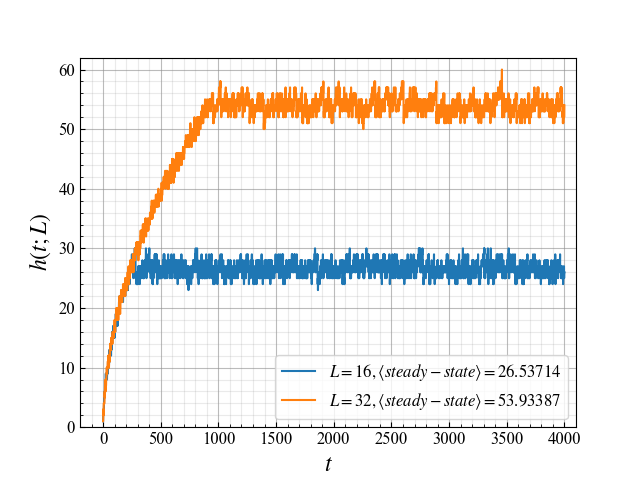
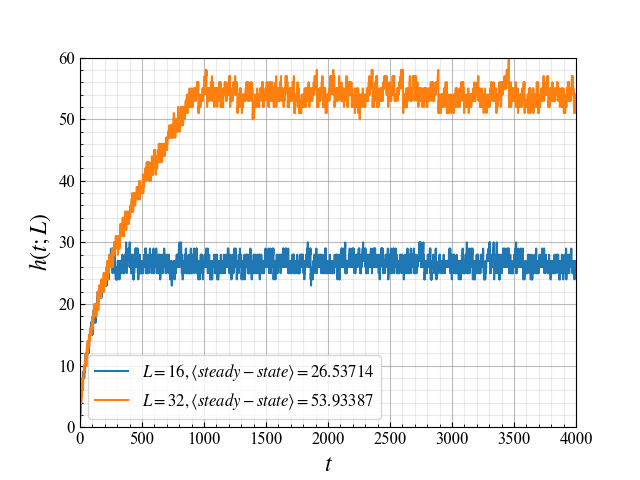
Completed most of Task3

diff --git a/main.py b/main.py
@@ -157,8 +157,8 @@ def task_1(compute=True, plot=False):
         plt.grid(b=True, which='minor', color='#999999', linestyle='-', alpha=0.2)
         plt.xticks(fontsize=12, fontname='Times New Roman')
         plt.yticks(fontsize=12, fontname='Times New Roman')
-        plt.ylim(0, 34)
-        plt.xlim(-200, 4100)
+        plt.ylim(0, 35)
+        plt.xlim(0, 4000)
         plt.savefig('Plots/Task1/chaning_probability.png')
         plt.show()
 
@@ -178,8 +178,8 @@ def task_1(compute=True, plot=False):
         plt.plot(sites, thresholds, 'x', label=r'$Threshold\: Slopes$')
         plt.xlabel('$\it{i}$', fontname='Times New Roman', fontsize=17)
         plt.ylabel('$\it{z_i}$', fontname='Times New Roman', fontsize=20)
-        plt.xlim([0, 33])
-        plt.ylim([0, 2.2])
+        plt.xlim([0, 35])
+        plt.ylim([0, 2.25])
         plt.legend()
         plt.minorticks_on()
         ax.tick_params(direction='in')
@@ -214,8 +214,8 @@ def task_1(compute=True, plot=False):
         plt.grid(b=True, which='minor', color='#999999', linestyle='-', alpha=0.2)
         plt.xticks(fontsize=12, fontname='Times New Roman')
         plt.yticks(fontsize=12, fontname='Times New Roman')
-        plt.ylim(0, 62)
-        plt.xlim(-200, 4100)
+        plt.ylim(0, 60)
+        plt.xlim(0, 4000)
         plt.savefig('Plots/Task1/heights_at_site_1.png')
         plt.show()
 
@@ -317,7 +317,7 @@ def task_2_a(compute=True, plot=False):
         plt.xticks(fontsize=12, fontname='Times New Roman')
         plt.yticks(fontsize=12, fontname='Times New Roman')
         plt.xlim(-2000, 64000)
-        plt.ylim(0, 460)
+        plt.ylim(0, 500)
         plt.savefig('Plots/Task2/task2a.png')
         plt.show()
 
@@ -397,7 +397,7 @@ def task_2_b(compute=True, plot=False):
         plt.grid(b=True, which='minor', color='#999999', linestyle='-', alpha=0.2)
         plt.xticks(fontsize=12, fontname='Times New Roman')
         plt.yticks(fontsize=12, fontname='Times New Roman')
-        plt.ylim(-2000, 58000)
+        plt.ylim(-2000, 60000)
         plt.xlim(0, 260)
         plt.savefig('Plots/Task2/task2b.png')
         plt.show()
@@ -545,7 +545,7 @@ def task_2_d(compute=True, plot=False):
         plt.grid(b=True, which='minor', color='#999999', linestyle='-', alpha=0.2)
         plt.xticks(fontsize=12, fontname='Times New Roman')
         plt.yticks(fontsize=12, fontname='Times New Roman')
-        plt.xlim(-0.05, 1.25)
+        plt.xlim(0, 1.2)
         plt.ylim(0, 2)
         plt.savefig('Plots/Task2/task2d.png')
         plt.show()
@@ -599,8 +599,8 @@ def task_2_e():
     plt.grid(b=True, which='minor', color='#999999', linestyle='-', alpha=0.2)
     plt.xticks(fontsize=12, fontname='Times New Roman')
     plt.yticks(fontsize=12, fontname='Times New Roman')
-    # plt.xlim(1, 5)
-    # plt.ylim(-1.2, -0.4)
+    plt.xlim(1, 6)
+    plt.ylim(-1, 3)
     plt.savefig('Plots/Task2/task2e.png')
     plt.show()
 
@@ -859,19 +859,171 @@ def task_3_a(compute=True, plot=False):
         plt.grid(b=True, which='minor', color='#999999', linestyle='-', alpha=0.1)
         plt.xticks(fontsize=12, fontname='Times New Roman')
         plt.yticks(fontsize=12, fontname='Times New Roman')
-        # plt.xlim(0, 2)
-        # plt.ylim(0, 0.45)
+        plt.xlim(1, 1e5)
         plt.savefig('Plots/Task3/task3a_i.png')
+        plt.show()
+
+        tau = 2.089
+        d = 1.5227
+        x_4_log = x_4 / (4**d)
+        x_8_log = x_8 / (8**d)
+        x_16_log = x_16 / (16**d)
+        x_32_log = x_32 / (32**d)
+        x_64_log = x_64 / (64**d)
+        x_128_log = x_128 / (128**d)
+        x_256_log = x_256 / (256**d)
+        y_4_log = [(x**tau) * y for x, y in zip(x_4, y_4)]
+        y_8_log = [(x**tau) * y for x, y in zip(x_8, y_8)]
+        y_16_log = [(x**tau) * y for x, y in zip(x_16, y_16)]
+        y_32_log = [(x**tau) * y for x, y in zip(x_32, y_32)]
+        y_64_log = [(x**tau) * y for x, y in zip(x_64, y_64)]
+        y_128_log = [(x**tau) * y for x, y in zip(x_128, y_128)]
+        y_256_log = [(x**tau) * y for x, y in zip(x_256, y_256)]
+
+        fig, ax = plt.subplots()
+        params = {'legend.fontsize': 12}
+        plt.rcParams.update(params)
+        matplotlib.rcParams['mathtext.fontset'] = 'custom'
+        matplotlib.rcParams['mathtext.rm'] = 'Bitstream Vera Sans'
+        matplotlib.rcParams['mathtext.it'] = 'Bitstream Vera Sans:italic'
+        matplotlib.rcParams['mathtext.bf'] = 'Bitstream Vera Sans:bold'
+        matplotlib.rcParams['mathtext.fontset'] = 'stix'
+        plt.plot(x_4_log, y_4_log, label=r'$L=4 \:$')
+        plt.plot(x_8_log, y_8_log, label=r'$L=8 \:$')
+        plt.plot(x_16_log, y_16_log, label=r'$L=16 \:$')
+        plt.plot(x_32_log, y_32_log, label=r'$L=32 \:$')
+        plt.plot(x_64_log, y_64_log, label=r'$L=64 \:$')
+        plt.plot(x_128_log, y_128_log, label=r'$L=128 \:$')
+        plt.plot(x_256_log, y_256_log, label=r'$L=256 \:$')
+        ax.set_xscale('log')
+        ax.set_yscale('log')
+        plt.legend()
+        plt.xlabel(r'$\it{s \: / \: L^{D}}$', fontname='Times New Roman', fontsize=17)
+        plt.ylabel(r'$\it{ s^{-\tau_s} \tilde P_N(s)}$', fontname='Times New Roman', fontsize=17)
+        plt.minorticks_on()
+        ax.tick_params(direction='in')
+        ax.tick_params(which='minor', direction='in')
+        plt.grid(b=True, which='major', color='#8e8e8e', linestyle='-', alpha=0.4)
+        plt.grid(b=True, which='minor', color='#999999', linestyle='-', alpha=0.1)
+        plt.xticks(fontsize=12, fontname='Times New Roman')
+        plt.yticks(fontsize=12, fontname='Times New Roman')
+        plt.xlim(10e-5, 10)
+        plt.ylim(10e-3, 1e5)
+        plt.savefig('Plots/Task3/task3a_ii.png')
+        plt.show()
+
+
+def task_3_b():
+        avalanches = np.load('Task 3a.npy', allow_pickle=True)
+        
+        k_mom_4 = [np.average(np.power(avalanches[0], i)) for i in range(1, 5)]
+        k_mom_8 = [np.average(np.power(avalanches[1], i)) for i in range(1, 5)]
+        k_mom_16 = [np.average(np.power(avalanches[2], i)) for i in range(1, 5)]
+        k_mom_32 = [np.average(np.power(avalanches[3], i)) for i in range(1, 5)]
+        k_mom_64 = [np.average(np.power(avalanches[4], i)) for i in range(1, 5)]
+        k_mom_128 = [np.average(np.power(avalanches[5], i)) for i in range(1, 5)]
+        k_mom_256 = [np.average(np.power(avalanches[6], i)) for i in range(1, 5)]
+
+        k_1 = [k_mom_4[0], k_mom_8[0], k_mom_16[0], k_mom_32[0], k_mom_64[0], k_mom_128[0], k_mom_256[0]]
+        k_2 = [k_mom_4[1], k_mom_8[1], k_mom_16[1], k_mom_32[1], k_mom_64[1], k_mom_128[1], k_mom_256[1]]
+        k_3 = [k_mom_4[2], k_mom_8[2], k_mom_16[2], k_mom_32[2], k_mom_64[2], k_mom_128[2], k_mom_256[2]]
+        k_4 = [k_mom_4[3], k_mom_8[3], k_mom_16[3], k_mom_32[3], k_mom_64[3], k_mom_128[3], k_mom_256[3]]
+        
+        y_1 = np.log(k_1)
+        y_2 = np.log(k_2)
+        y_3 = np.log(k_3)
+        y_4 = np.log(k_4)
+
+        l = [4, 8, 16, 32, 64, 128, 256]
+        l_log = np.log(l)
+
+        fit_phase_1, cov_phase_1 = np.polyfit(l_log, y_1, 1, cov=True)
+        p_phase_1 = np.poly1d(fit_phase_1)
+        fit_phase_2, cov_phase_2 = np.polyfit(l_log, y_2, 1, cov=True)
+        p_phase_2 = np.poly1d(fit_phase_2)
+        fit_phase_3, cov_phase_3 = np.polyfit(l_log, y_3, 1, cov=True)
+        p_phase_3 = np.poly1d(fit_phase_3)
+        fit_phase_4, cov_phase_4 = np.polyfit(l_log[:-1], y_4[:-1], 1, cov=True)
+        p_phase_4 = np.poly1d(fit_phase_4)
+
+        gradient_1 = fit_phase_1[0]
+        gradient_2 = fit_phase_2[0]
+        gradient_3 = fit_phase_3[0]
+        gradient_4 = fit_phase_4[0]
+
+        fig, ax = plt.subplots()
+        params = {'legend.fontsize': 12}
+        plt.rcParams.update(params)
+        matplotlib.rcParams['mathtext.fontset'] = 'custom'
+        matplotlib.rcParams['mathtext.rm'] = 'Bitstream Vera Sans'
+        matplotlib.rcParams['mathtext.it'] = 'Bitstream Vera Sans:italic'
+        matplotlib.rcParams['mathtext.bf'] = 'Bitstream Vera Sans:bold'
+        matplotlib.rcParams['mathtext.fontset'] = 'stix'
+        l_log_space = np.linspace(min(l_log), max(l_log), 500)
+        plt.plot(l_log, y_1, 'o')
+        plt.plot(l_log, y_2, 'o')
+        plt.plot(l_log, y_3, 'o')
+        plt.plot(l_log[:-1], y_4[:-1], 'o')
+        plt.plot(l_log_space, p_phase_1(l_log_space), label=r'$fit: k=1,$' + ' ' + r'$gradient=$' + r'${}$'.format(round(gradient_1, 3)))
+        plt.plot(l_log_space, p_phase_2(l_log_space), label=r'$fit: k=2,$' + ' ' + r'$gradient=$' + r'${}$'.format(round(gradient_2, 3)))
+        plt.plot(l_log_space, p_phase_3(l_log_space), label=r'$fit: k=3,$' + ' ' + r'$gradient=$' + r'${}$'.format(round(gradient_3, 3)))
+        plt.plot(l_log_space[:-80], p_phase_4(l_log_space[:-80]), label=r'$fit: k=4,$' + ' ' + r'$gradient=$' + r'${}$'.format(round(gradient_4, 3)))
+        plt.legend()
+        plt.xlabel(r'$\it{log({L})}$', fontname='Times New Roman', fontsize=17)
+        plt.ylabel(r'$\it{log({\langle{s^k}\rangle})}$', fontname='Times New Roman', fontsize=17)
+        plt.minorticks_on()
+        ax.tick_params(direction='in')
+        ax.tick_params(which='minor', direction='in')
+        plt.grid(b=True, which='major', color='#8e8e8e', linestyle='-', alpha=0.4)
+        plt.grid(b=True, which='minor', color='#999999', linestyle='-', alpha=0.1)
+        plt.xticks(fontsize=12, fontname='Times New Roman')
+        plt.yticks(fontsize=12, fontname='Times New Roman')
+        plt.xlim(1, 6)
+        plt.ylim(0, 35)
+        plt.savefig('Plots/Task3/task3b_i.png')
+        plt.show()
+
+        gradients = [gradient_1, gradient_2, gradient_3, gradient_4]
+        k_s = [1, 2, 3, 4]
+        fit_phase_k, cov_phase_k = np.polyfit(k_s, gradients, 1, cov=True)
+        p_phase_k = np.poly1d(fit_phase_k)
+        
+        fig, ax = plt.subplots()
+        params = {'legend.fontsize': 12}
+        plt.rcParams.update(params)
+        matplotlib.rcParams['mathtext.fontset'] = 'custom'
+        matplotlib.rcParams['mathtext.rm'] = 'Bitstream Vera Sans'
+        matplotlib.rcParams['mathtext.it'] = 'Bitstream Vera Sans:italic'
+        matplotlib.rcParams['mathtext.bf'] = 'Bitstream Vera Sans:bold'
+        matplotlib.rcParams['mathtext.fontset'] = 'stix'
+        plt.plot(k_s, gradients, 'o')
+        k_space = np.linspace(0, 4, 500)
+        plt.plot(k_space, p_phase_k(k_space), label=r'$fit:$' + r'$gradient\equiv D = $' + r'${}$'.format(round(fit_phase_k[0], 3)) \
+                                                    + '\n' + r'$fit: \tau_s = $' + r'${}$'.format(round(1 - fit_phase_k[1]/fit_phase_k[0], 4)))
+        plt.legend()
+        plt.xlabel(r'$\it{k}$', fontname='Times New Roman', fontsize=17)
+        plt.ylabel(r'$\it{D(1 + k - \tau_s)}$', fontname='Times New Roman', fontsize=17)
+        plt.minorticks_on()
+        ax.tick_params(direction='in')
+        ax.tick_params(which='minor', direction='in')
+        plt.grid(b=True, which='major', color='#8e8e8e', linestyle='-', alpha=0.4)
+        plt.grid(b=True, which='minor', color='#999999', linestyle='-', alpha=0.1)
+        plt.xticks(fontsize=12, fontname='Times New Roman')
+        plt.yticks(fontsize=12, fontname='Times New Roman')
+        plt.xlim(0.5, 4.5)
+        plt.ylim(0, 8)
+        plt.savefig('Plots/Task3/task3b_ii.png')
         plt.show()
 
 
 if __name__ == '__main__':
     # task_1(compute=False, plot=True)
-    # print('No. of reccurant configs:', check_recurrent_configs(size=2, grains=int(2e4)))
+    # # print('No. of reccurant configs:', check_recurrent_configs(size=2, grains=int(2e4)))  # remember to change vars
     # task_2_a(compute=False, plot=True)
     # task_2_b(compute=False, plot=True)
     # task_2_d(compute=False, plot=True)
     # task_2_e()
     # task_2_f()
     # task_2_g(compute=False, plot=True)
-    task_3_a(compute=False, plot=True)
+    # task_3_a(compute=False, plot=True)
+    task_3_b()
